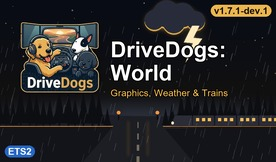
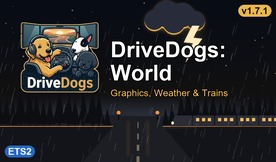
release world 1.7.1 after the playtest: lamp glows back, junctions without the sun patches
The maintainer played 1.7.1-dev.1 against 1.7.0 and the lamp glows and junctions look right. ADR-0002 records both
decisions: Real companies' three clamped base textures are excluded (decision 2), and junction, yard and parking
surfaces keep the game's own until every paved layer of a blend can get the same map and shininess (decision 6);
the README no longer lists junction wheel tracks. Every generator is up to date, sign defs 2,023/0, model pairs
6,812/0 bad, and check --strict passes.

Changed region(s): [[0.7536, 0.0, 0.9565, 0.1235]]

diff --git a/docs/adr/ADR-0002-world-graphics.md b/docs/adr/ADR-0002-world-graphics.md
@@ -5,6 +5,8 @@
 - Amended: 2026-10-31 (1.4.1: wet roads no longer a mirror; decisions 4, 6 and 8)
 - Amended: 2026-10-31 (1.4.2: the rough wet look on every asphalt, legacy roads included; decision 6)
 - Amended: 2026-11-14 (1.6.0: DBM Road Textures above Asphalt_improved's road colours; decisions 2 and 15)
+- Amended: 2026-11-17 (1.7.1: Real companies' clamped base textures excluded, junction surfaces back to the game's;
+  decisions 2 and 6)
 
 ## Context
 
@@ -30,7 +32,11 @@
    DBM Vegetation < DBM Terrain < DBM Guard Rails < DBM Buildings < DBM Roads < Weather_3.9 < Realistic Rain < Kass <
    DBM Water < Real companies. DIOX sits below Juninho944's set on purpose. Every collision
    is declared by `overrides:`, resolved in `resolutions.yaml` (gas price stand to Real companies, rain streaks and
-   puddle normal maps to `overrides/`), or excluded at the losing source.
+   puddle normal maps to `overrides/`), or excluded at the losing source. Real companies' copies of three base
+   textures that differ only in a .tobj set to clamp instead of repeat (`material/special/decal_light_01`,
+   `material/special/glass_building_01`, `material/tiled/iamod_building_01`) are excluded (1.7.1): base models tile
+   them, so clamped they sampled the edge, and the lamp glows and light pools of 872 models (buildings, landmarks,
+   signs, tunnels such as Bosruck) went dark at night while their light still reached the road.
 3. **Game settings as edits** (`world/graphics.yaml`, `world/brands.yaml`): grass density and 155 terrain tints,
    Beautiful Nature's leaves LOD only, Realistic Rain's windshield drops, Real companies' 256 company names and 113
    trailer paint-job masks. A `trailer_look` change is carried only when that look exists (`plain` or a
@@ -59,18 +65,22 @@
    puddle normal maps are blended (Reoriented Normal Mapping, BC5, at RRR's 2048 px with a full mip chain) into
    the 49 winning road normal maps, so Asphalt_improved keeps its surface detail. The ruts are strengthened where
    Asphalt's detail is rough (universal 1.6x, blkw 1.4x, country templates 1.0x), so the tracks reach RRR's own
-   depth. Its reflection/shine values are carried onto 263 base materials; the 58 junction materials 1.61 gives
-   no normal map get the blended map of the road template with the same colour texture (plus `.tsnmapcalc`), so
-   no RRR file ships unblended. Its colour textures, junction models, headlights, climate and rain files are not
+   depth. Its reflection/shine values are carried onto base materials (sidewalks, tiles, concrete, parking lots,
+   junctions); its junction rut maps are not used, so no RRR file ships unblended. Its colour textures, junction models, headlights, climate and rain files are not
    used. The blended textures are git-ignored and regenerated by the tool.
    Every blend has a grain floor: a surface detail smoother than 22 deg mean tilt (the country templates, the legacy
    roads) has its fine grain raised to it, so wet roads sparkle like the universal/blkw roads instead of mirroring
    buildings in patches. The legacy (pre-template) roads, ~8% of road items and most of the UK, which RRR never
    covered, get World's own wheel tracks (two troughs in each 0.25-U lane strip of their textures) and the templates'
    shininess 50 instead of Asphalt's 15.
-   Base junction, yard and parking materials whose colour layer is a legacy asphalt texture (~230, the UK prefabs)
-   get that legacy road's normal map on the layer (a template road map or the base game's flat map on the other), as
-   SCS's own two-layer materials do, `.tsnmapcalc` only where the base game already uses that effect, and shininess 50.
+   Junction, yard and parking surfaces keep the game's own (amended 2026-11-17, World 1.7.1; maintainer: playtest of
+   1.7.1-dev.1 OK). From 1.4.1 to 1.7.0 they got a normal map: the road template's wheel-track map on the template
+   junctions (`JUNCTION_NMAPS`) and the legacy road's map with shininess 50 on ~230 UK junctions (`LEGACY_JUNCTIONS`).
+   In 77 two-layer blends only the asphalt layer got it, while the dark repair-patch (`dark_c2`-`c6`) or terrain
+   asphalt layer stayed flat with shininess 8, so in sun the jagged blend edges showed as lighter and darker patches
+   in junctions and roundabouts. Both switches are off. Bringing wet junctions back needs every paved layer of a
+   blend on the same normal map and shininess (the dark layer mostly uses world-generated UVs, so wheel tracks there
+   cannot follow the lanes).
 7. **Kass:** lightning (20 bolt/cloud sets), thunder bank, and the water textures 1.61 uses (wave maps, river, muddy
    and green water, panorama, Balkan water plants), replacing Beautiful Water; beaches stay grass_4.0's. Its rain
    sounds, particles, spray, windshield, `game_data` and camera are not used.

diff --git a/README.md b/README.md
@@ -4,7 +4,7 @@ ETS2 mod for the world around the road, built as a local **megapack** with the `
 `scs-mod-developer` agent profile. This repo holds only configuration and tools. The mod is built from the
 extracted base game, subscribed Workshop items and one local archive. It is never redistributed.
 
-Current content (v1.7.0, ETS2 1.62.1.0, checked on 1.62.3.3):
+Current content (v1.7.1, ETS2 1.62.1.0, checked on 1.62.3.3):
 
 - **Graphics** from Juninho944 (Weather_3.9, Asphalt_improved, grass_4.0_lite, tree_improved_4k), DIOX (Beautiful
   Nature), Darkcaptain (Realistic Rain) and DBM (Vegetation, Terrain Textures, Road Textures, Guard Rails 4K, World &
@@ -12,9 +12,9 @@ Current content (v1.7.0, ETS2 1.62.1.0, checked on 1.62.3.3):
   colours sit on Asphalt_improved's crack and joint relief.
 - **Water** from DBM Water (lake waves, foam, shores, beaches) and Kass (rivers, distant water); **lightning and
   thunder** from Kass (Realistic Rain & Water & Thunder Sounds).
-- **Wet roads**: Grimes' Realistic Rain Reflections wheel tracks blended into the winning road normal maps and
-  junctions (World's own on the older roads, UK junctions and yards), a rough wet grain on every asphalt, its wet
-  reflections on sidewalks, tiles and concrete, and a softer sky mirror so the asphalt shows through. Needs the game's rain reflections and reflection quality set high.
+- **Wet roads**: Grimes' Realistic Rain Reflections wheel tracks blended into the winning road normal maps
+  (World's own on the older roads), a rough wet grain on every asphalt road, its wet reflections on sidewalks, tiles,
+  concrete and junctions (junction surfaces stay the game's own), and a softer sky mirror so the asphalt shows through. Needs the game's rain reflections and reflection quality set high.
 - **Road signs and markings** from DBM Road Signs & Markings 4K; **real company and gas station brands** from Real
   companies & gas stations (MLH82, 4of25), its pre-1.62 gas-station models given 1.62's looks and price boards.
 - **Weather and time**: a rain mix of mostly light and medium rain, lighter rain fog at night so headlights reach and
